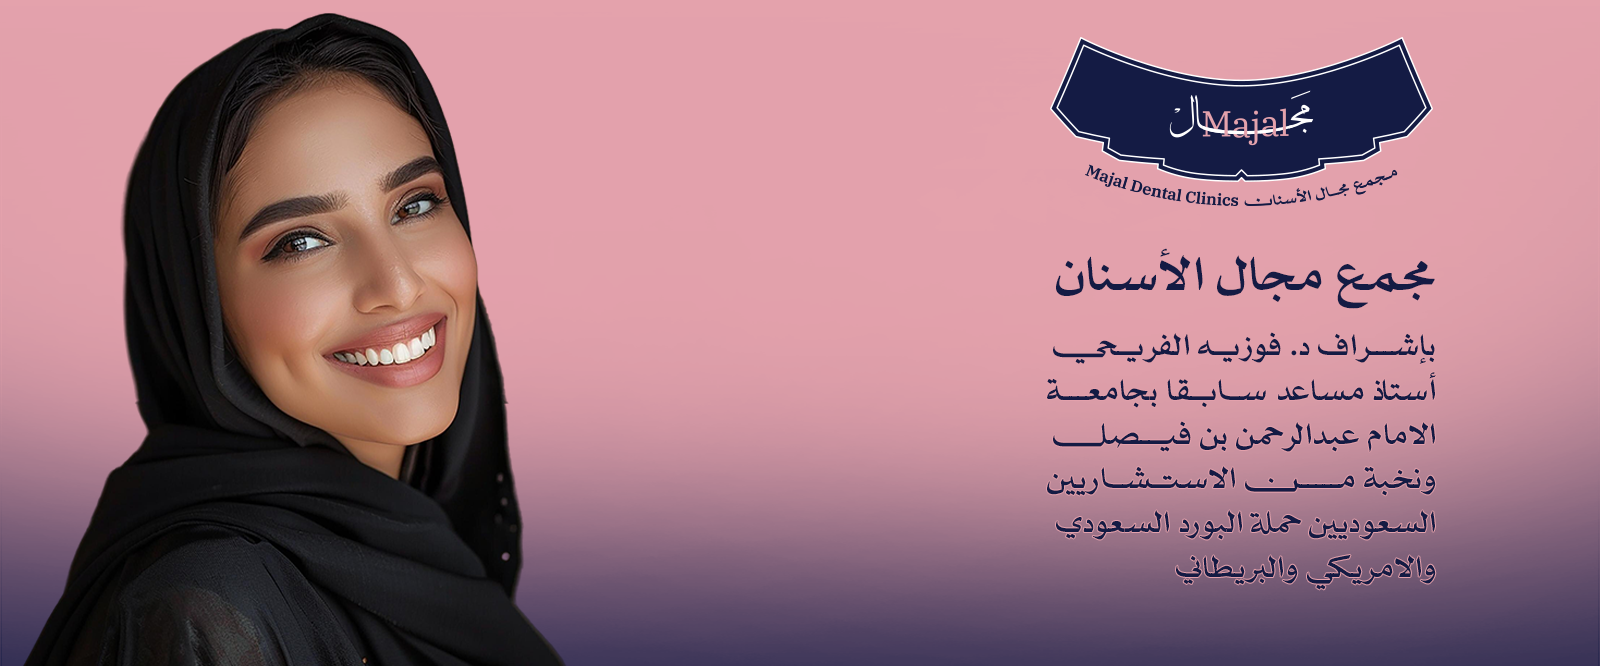
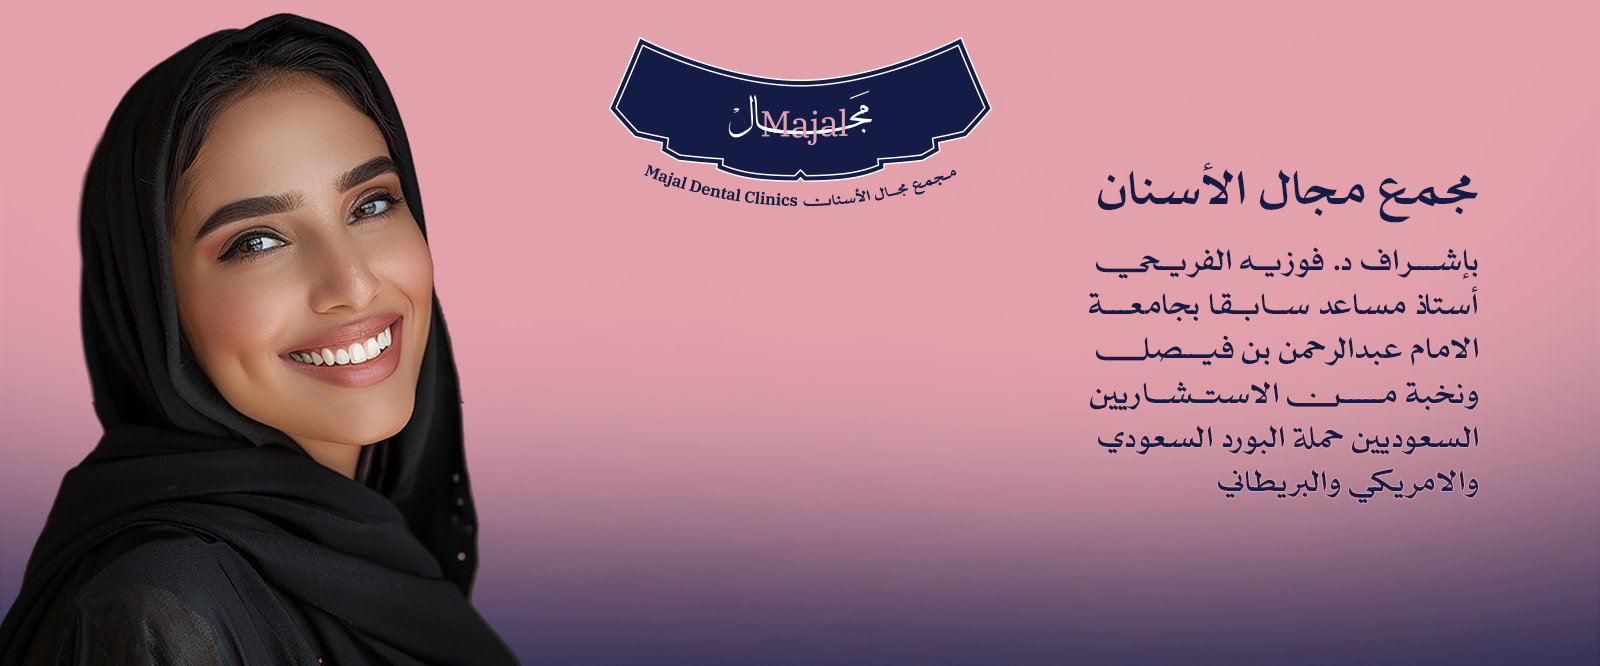
aa

diff --git a/majal_ws/about.php b/majal_ws/about.php
@@ -23,7 +23,7 @@
           </div>
           <div class="st-section-heading-subtitle">
  
-          مرحبًا بكم في مجمع مجال لطب الأسنان، حيث نضع رعاية الفم والأسنان في مقدمة أولوياتنا. منذ تأسيسنا، كرّسنا جهودنا لتقديم أفضل الخدمات والعلاجات في مجال طب الأسنان. نفتخر بكوننا واحدة من العيادات الرائدة في تقديم الرعاية الصحية المتكاملة والمتميزة في مجال طب الأسنان
+                مجمع مجال لطب الأسنان، حيث نضع رعاية الفم والأسنان في مقدمة أولوياتنا. منذ تأسيسنا، كرّسنا جهودنا لتقديم أفضل الخدمات والعلاجات في مجال طب الأسنان. نفتخر بكوننا واحدة من العيادات الرائدة في تقديم الرعاية الصحية المتكاملة والمتميزة في مجال طب الأسنان
           </div>
         </div>
 

diff --git a/majal_ws/hero2.php b/majal_ws/hero2.php
@@ -88,7 +88,7 @@
       position: absolute;
       top: 59%;
       left: 50%;
-      transform: translate(-50%, -300%);
+      transform: translate(-50%, -500%);
     }
   
   

diff --git a/majal_ws/index.php b/majal_ws/index.php
@@ -56,6 +56,12 @@ include "nav.php";
     <!-- Start Hero Seciton -->
    
     <!-- End Hero Seciton -->
+
+
+    <div id="home">
+
+
+    </div>
 <?php
 
 

diff --git a/majal_ws/head.php b/majal_ws/head.php
@@ -1,4 +1,4 @@
-<head>
+<head >
 
  
 
